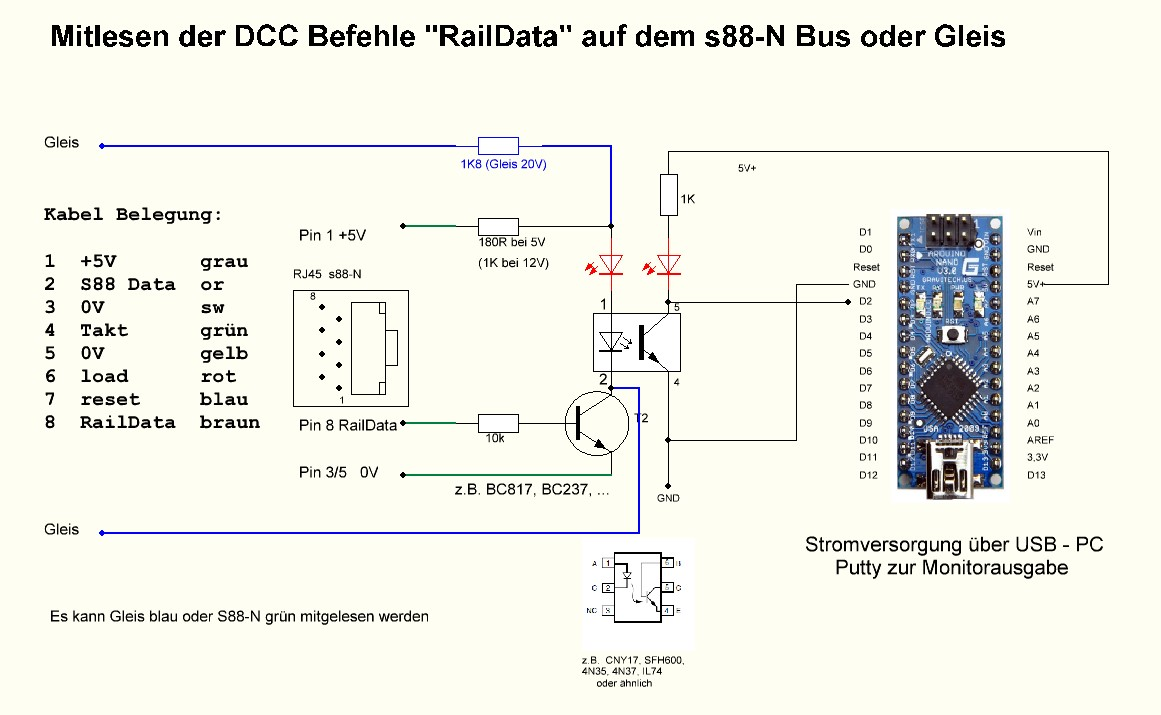
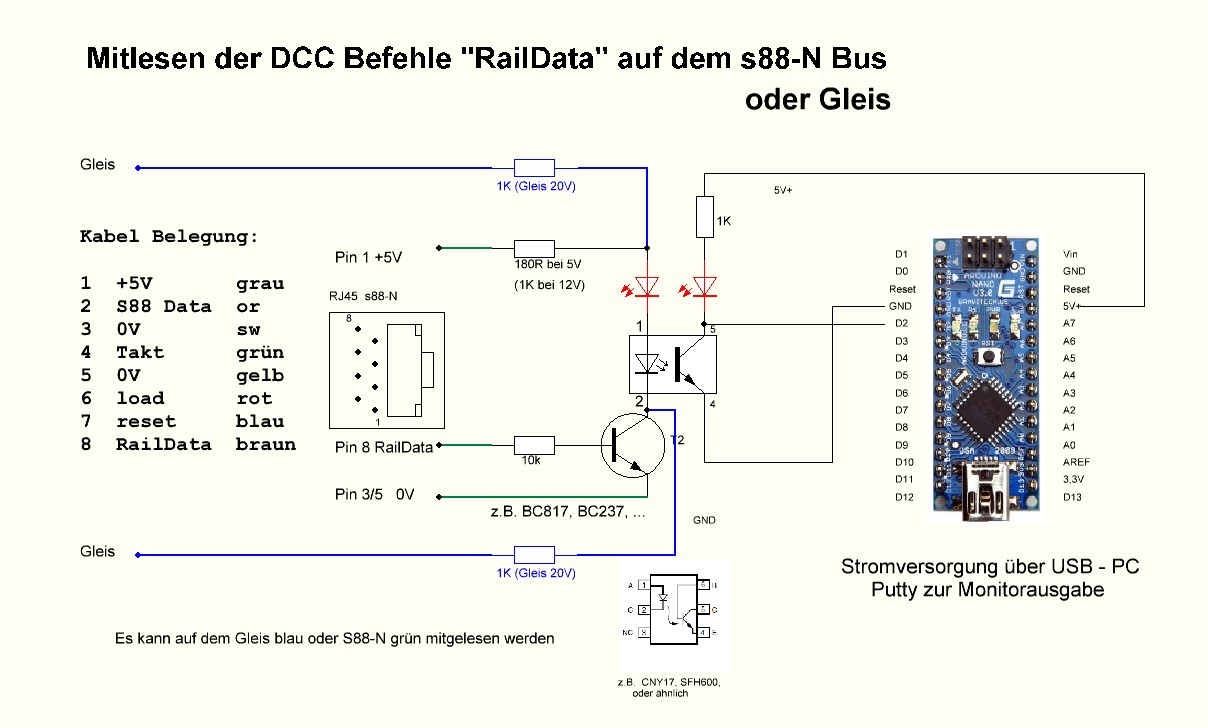
DCC Sniffer

diff --git a/Eisenbahn/DCC_Sniffer/DCC_Sniffer.html b/Eisenbahn/DCC_Sniffer/DCC_Sniffer.html
@@ -12,9 +12,9 @@
         <div class="layout">
             <h1 class="titel">Arduino DCC Sniffer</h1>
             <div>
-                <h2>DCC Sniffer zum Mitlesen der DCC Befehle "RailData" auf dem s88-N Bus oder direkt von Gleis</h2>
+                <h2>DCC Sniffer zum Mitlesen der DCC Befehle "RailData" auf dem s88-N Bus oder direkt vom Gleis</h2>
                 für den DCC Sniffer verwende ich einen Arduino Nano, welcher die DCC-Daten über USB zum Mitlesen mittels PuTTY (oder den Arduino-IDE Monitor) auf dem PC bereitstellt, 
-                einfach an das letzte s88-N Modul anstecken oder zum Gleis
+                einfach an das letzte s88-N Modul anstecken oder auf dem Gleis.
 				<br>
                 <br>
                 Quelle:
@@ -22,12 +22,12 @@
                 <span style="font-size:7pt">(externer Link)</span>
                 <p>
                     - DCC_Sniffer.ino, 
-				<br>-<em> DCC_Sniffer2.ino, </em> eine von mir bevorzugte Variante.   
+				<br>-<em> DCC_Sniffer2.ino, </em> eine meiner bevorzugten Varianten.   
 				<br>zusätzlich wird die Libary "TimerOne" benötigt, die aktuelle Library funktioniert bei mir nicht, hier ein ältere Version:
 					<a href="Libary_fuer_DCC_Sniffer-TimerOne.zip" target="_blank"> Libary_fuer_DCC_Sniffer-TimerOne.zip</a> 
 					mit dieser älteren "TimerOne" Libary funktionieren das Mitlesen auf einen Arduino Nano.
                 </p>
-                <em> - DCC_Monitor_V1.4_Stummi.ino, </em> eine von mir bevorzugte Variante.            
+                <em> - DCC_Monitor_V1.4_Stummi.ino, </em> die von mir bevorzugte Variante.            
                 Quelle: <a target="_blank" class="big" href="https://www.stummiforum.de/viewtopic.php?f=5&t=176550&p=2208635#p2208635">Stummi Forum</a> - Für Stummi Forum Benutzer
                 <span style="font-size:7pt">(externer Link)</span>
                 <br>                <br>
